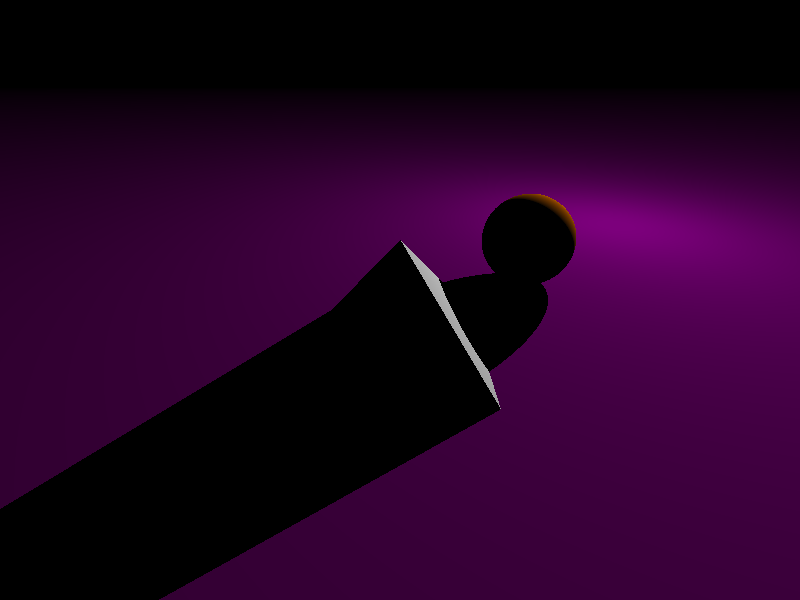
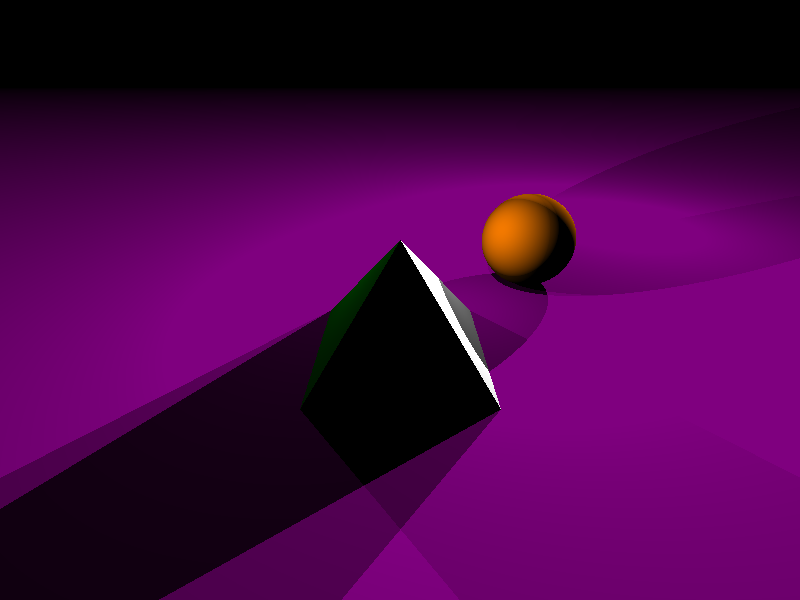
fix: intensity light

diff --git a/src/entity/scene.cpp b/src/entity/scene.cpp
@@ -104,7 +104,7 @@ Color Scene::brightness(const Ray& ray, SurfaceIntersection surface, const Box& 
 
     Ray temp(matched, dir);
 
-    double delta = 1.0;
+    double delta = 0.01;
 
     Ray lightRay(temp.pointAt(delta), dir);
 
@@ -114,6 +114,8 @@ Color Scene::brightness(const Ray& ray, SurfaceIntersection surface, const Box& 
 
     if(cmp(opaqueSurface.first.distance, toLight.norm()) != 1) return Color(0, 0, 0);
     Color color = light.getIntensity();
+
+    if(cmp(lightRay.direction.angle(surface.normal), PI/2.0) != -1) return Color(0, 0, 0);
 
     double diffuse = box.getDiffuseCoefficient() * (lightRay.direction.dot(surface.normal));
     double specular = box.getSpecularCoefficient() * std::pow(lightRay.direction.dot(surface.normal), box.getRoughnessCoefficient());

diff --git a/tests/project_v1/version_03.cpp b/tests/project_v1/version_03.cpp
@@ -103,7 +103,7 @@ int main() {
     
     Light l1(Point(10, 100, 100), Color(0.2, 0.2, 0.2));
     Light l2(Point(100, 10, 100), Color(0.5, 0.5, 0.5));
-    Light l3(Point(500, 0, 200), Color(0.7, 0.7, 0.7));
+    Light l3(Point(500, 0, 200), Color(0.8, 0.8, 0.8));
 
     scene.addLight(l1);
     scene.addLight(l2);
